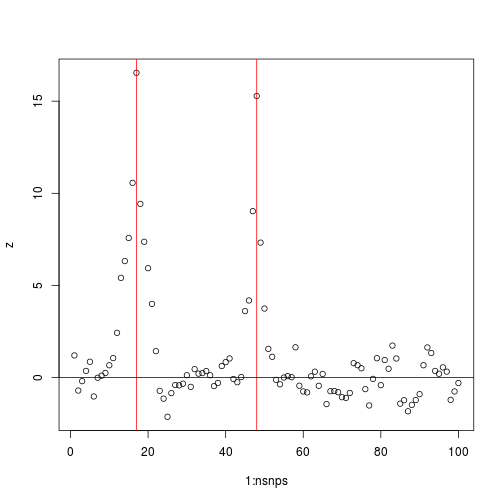
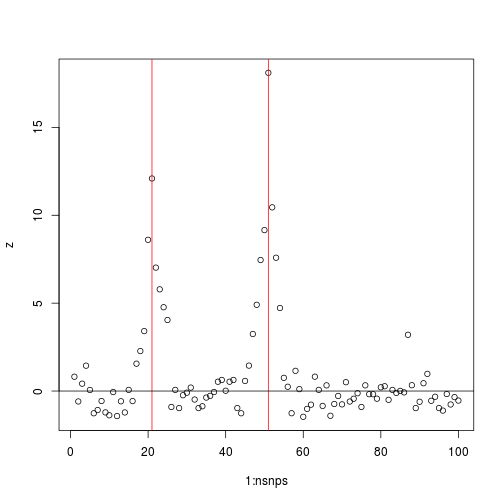
recover vignette

diff --git a/vignettes/intro.html b/vignettes/intro.html
@@ -201,14 +201,6 @@ hr {
 </head>
 
 <body>
-<!-- Vignettes are long form documentation commonly included in packages. Because they are part of the distribution of the package, they need to be as compact as possible. The `html_vignette` output type provides a custom style sheet (and tweaks some options) to ensure that the resulting html is as small as possible. The `html_vignette` format: -->
-
-<!-- - Never uses retina figures -->
-
-<!-- - Has a smaller default figure size -->
-
-<!-- - Uses a custom CSS stylesheet instead of the default Twitter Bootstrap style -->
-
 <p>Load the library</p>
 
 <pre><code class="r">library(simGWAS)
@@ -243,22 +235,24 @@ sum(freq$Probability)
 g1 &lt;- c(1.4,1.2)
 </code></pre>
 
-<p>Now we simulate the results of a GWAS.  There are two key functions, <code>expected_z_score</code> calculates the expected Z score at each SNP conditional on genotypes at the causal variants.</p>
+<p>Now we simulate the results of a GWAS.  There are two key functions, <code>makeGenoProbList</code> calculates genotype probabilities at each SNP conditional on genotypes at the causal variants, then <code>est_statistic</code> generates the vector of Z scores across all SNPs, conditional on the causal variants <em>and</em> their odds ratios.</p>
 
-<pre><code class="r">z &lt;- expected_z_score(N0=3000, # number of controls
+<pre><code class="r">FP &lt;- make_GenoProbList(snps=snps,W=CV,freq=freq)
+z &lt;- expected_z_score(N0=3000, # number of controls
               N1=2000, # number of cases
               snps=snps, # column names in freq of SNPs for which Z scores should be generated
               W=CV, # causal variants, subset of snps
-              gamma.CV=g1, # log odds ratios
-              freq=freq) # reference haplotypes
+              gamma.W=g1, # odds ratios
+              freq=freq, # reference haplotypes
+              GenoProbList=FP) # FP above
 </code></pre>
 
-<p>Ignoring physical spacing of SNPs on the chromosome, this would produce results like, with red lines indicating where the causal variants are.</p>
+<p>Ignoring spacing, this would produce results like, with red lines indicating where the causal variants are.</p>
 
 <pre><code class="r">plot(1:nsnps,z); abline(v=which(snps %in% CV),col=&quot;red&quot;); abline(h=0)
 </code></pre>
 
[2 lines of base64/hex data omitted]
 
 <p>True GWAS statistics will vary about this expected value, and may be simulated by (one row per realisation)</p>
 
@@ -266,18 +260,18 @@ g1 &lt;- c(1.4,1.2)
               N1=2000, # number of cases
               snps=snps, # column names in freq of SNPs for which Z scores should be generated
               W=CV, # causal variants, subset of snps
-              gamma.CV=g1, # log odds ratios
+              gamma.W=g1, # log odds ratios
               freq=freq, # reference haplotypes
           nrep=3)
 </code></pre>
 
 <p>If we need log odds ratios and standard errors, rather than simply Z scores, we may simulate variance(beta) by:</p>
 
-<pre><code class="r">  vbetasim &lt;- simulated_vbeta(N0=3000, # number of controls
+<pre><code class="r"> vbetasim &lt;- simulated_vbeta(N0=3000, # number of controls
               N1=2000, # number of cases
               snps=snps, # column names in freq of SNPs for which Z scores should be generated
               W=CV, # causal variants, subset of snps
-              gamma.CV=g1, # log odds ratios
+              gamma.W=g1, # log odds ratios
               freq=freq, # reference haplotypes
           nrep=3)
   betasim &lt;- zsim * sqrt(vbetasim)
